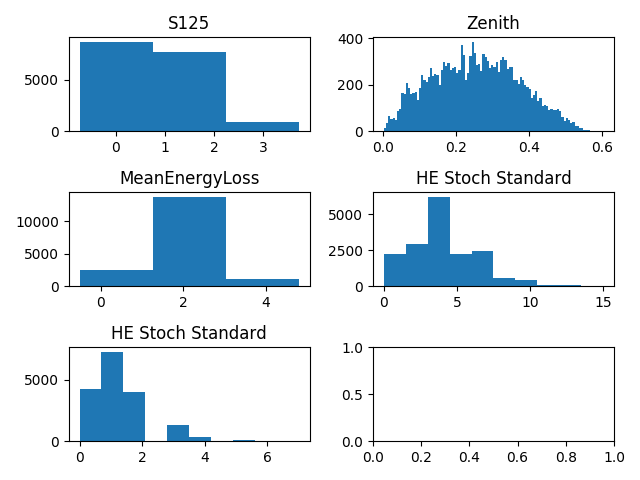
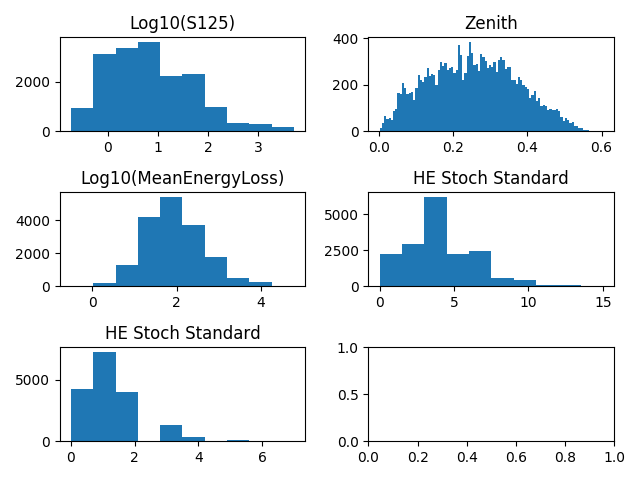
updates

diff --git a/Histogram.py b/Histogram.py
@@ -43,12 +43,12 @@ fig, axes = plt.subplots(3, 2)
 
 print(max(MeanEnergyLoss),min(MeanEnergyLoss))
 
-axes[0,0].hist(S125,bins=3)
-axes[0,0].set_title('S125')
+axes[0,0].hist(S125,bins=10)
+axes[0,0].set_title('Log10(S125)')
 axes[0,1].hist(Zenith,bins=100)
 axes[0,1].set_title('Zenith')
-axes[1,0].hist(MeanEnergyLoss,bins=3)
-axes[1,0].set_title('MeanEnergyLoss')
+axes[1,0].hist(MeanEnergyLoss,bins=10)
+axes[1,0].set_title('Log10(MeanEnergyLoss)')
 axes[1,1].hist(HE_stoch_standard,bins=10)
 axes[1,1].set_title('HE Stoch Standard')
 axes[2,0].hist(HE_stoch_strong,bins=10)
